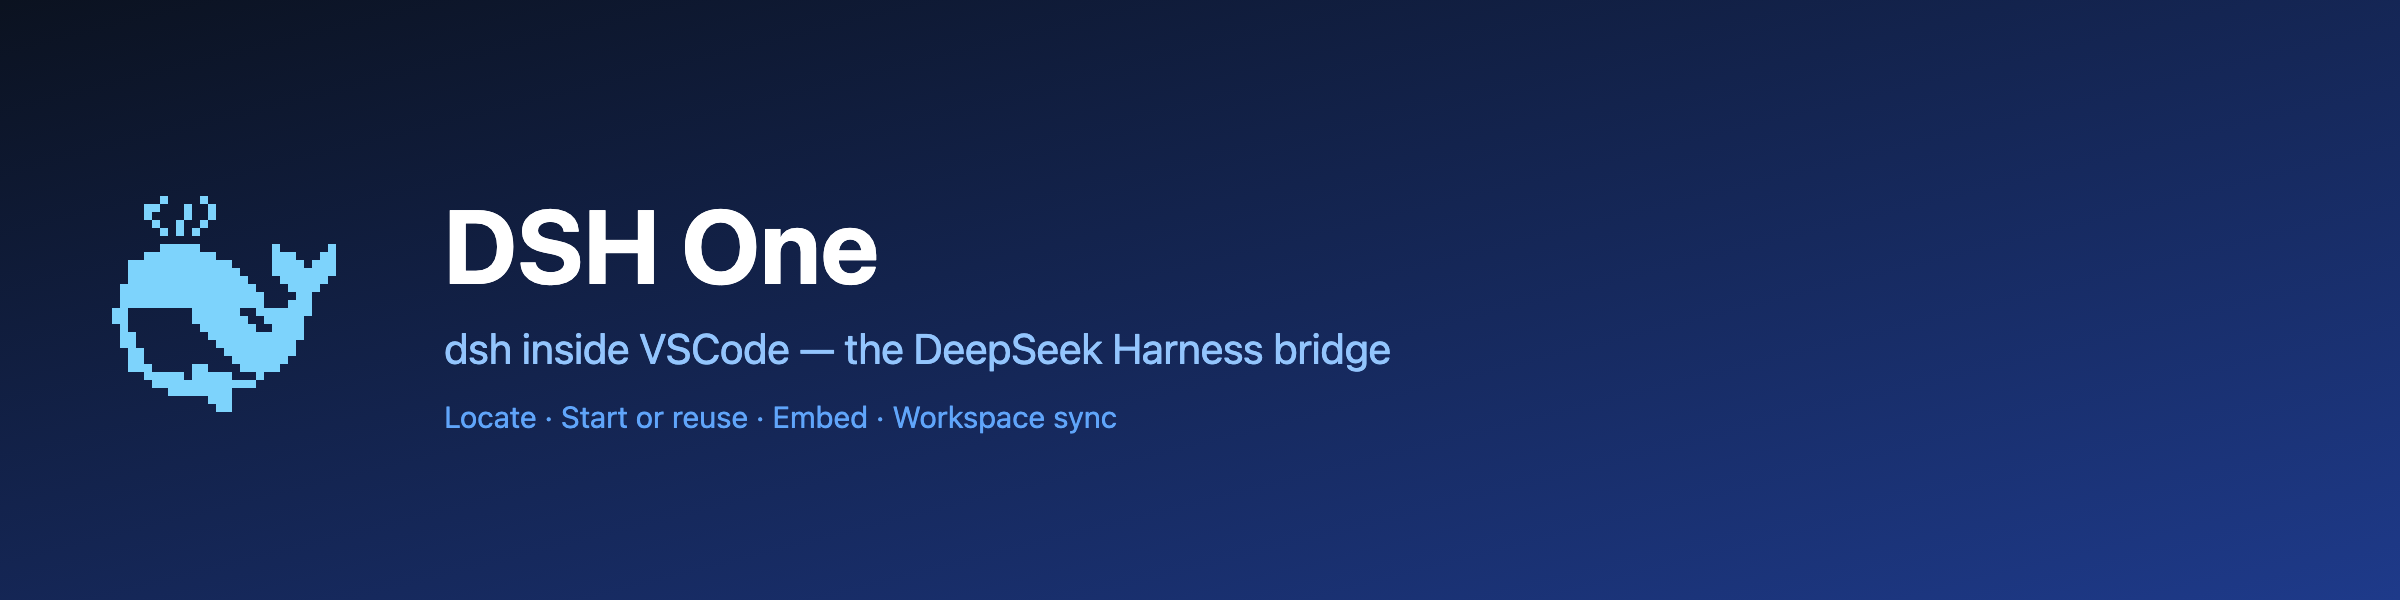
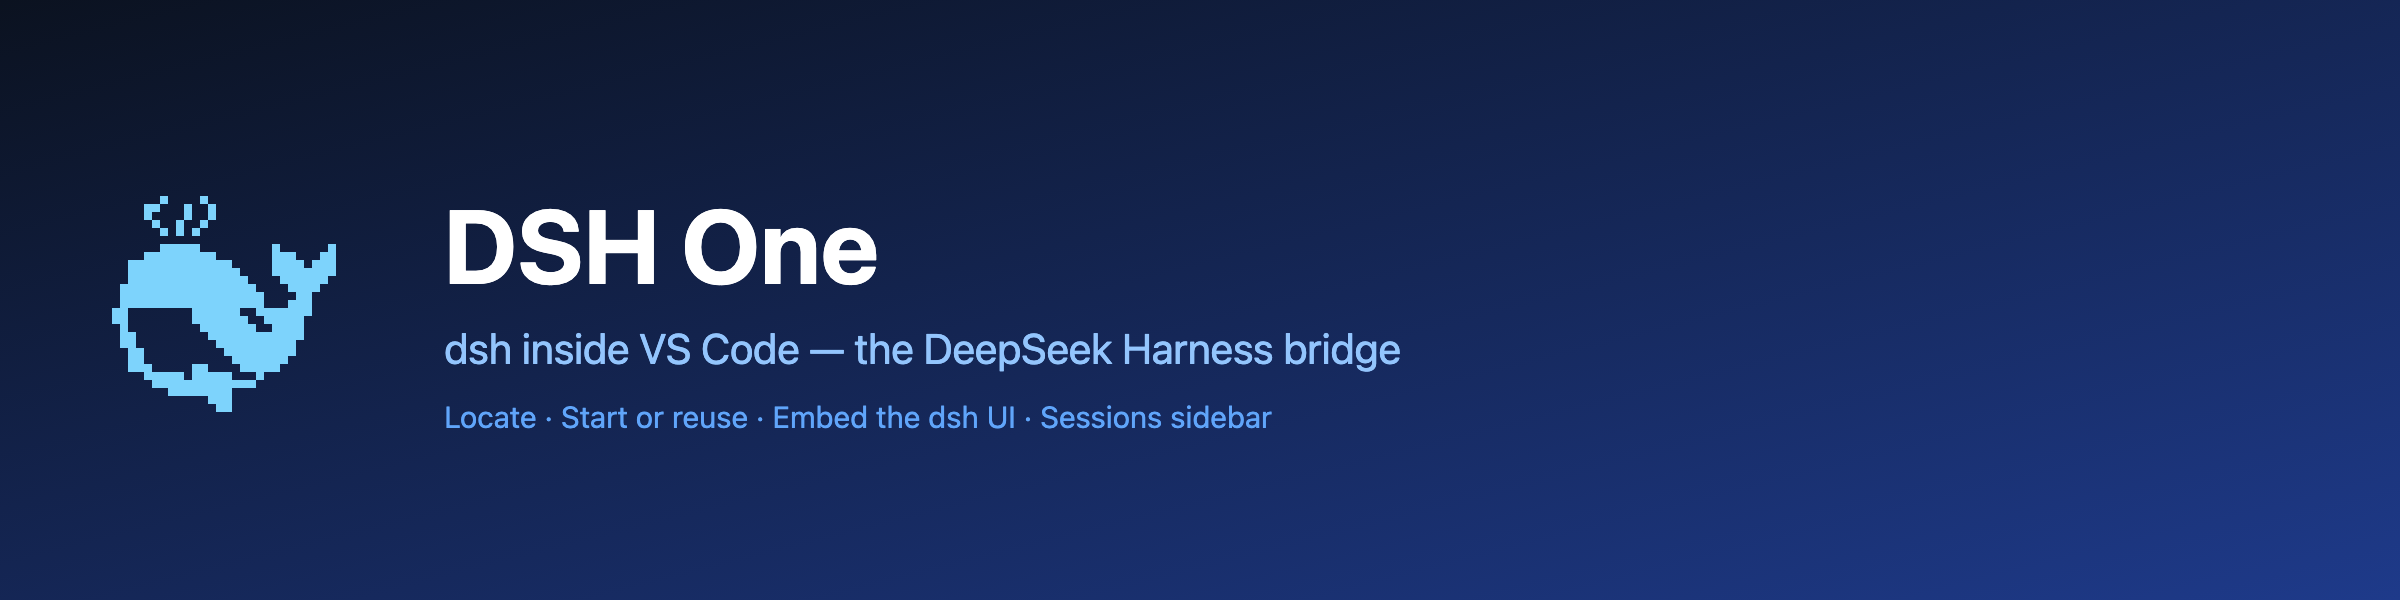
fix(ui-text): 用户可见文案去掉「装配」；hero 图重出；删掉过时的架构总图
- 命令标题：Open Assembled Chat / dsh Settings (assembled) → Open Chat / dsh Settings
  （中文：打开装配对话区 → 打开对话区，dsh 设置（装配）→ dsh 设置）；
- 中文错误文案五条去掉「装配」「mirror」这类内部说法（键不变，只改译文）；
- assets/hero.svg 重新出图（2400x600）：VSCode → VS Code，「Workspace sync」换成
  与 2.0.0 相符的「Embed the dsh UI · Sessions sidebar」；
- 删除 docs/assembly-architecture-diagram.png（#64 M1 的单树形态，与现状不符、
  已无引用），assembly-architecture.html 的历史材料那句跟上。

Changed region(s): [[0.2812, 0.54, 0.5938, 0.63], [0.3438, 0.66, 0.5312, 0.72]]

diff --git a/docs/assembly-architecture.html b/docs/assembly-architecture.html
@@ -169,7 +169,7 @@
 </ul>
 
 <h2>7. 历史材料</h2>
-<p>仓库里还留着一张 2026-09-14 画的装配架构总图（<code>docs/assembly-architecture-diagram.png</code>），那是 <code>develop/cordis-chat</code> 验证线上 <code>#64</code> M1 的形态：当时只有对话区一棵树、block list 两条、外框插件还叫 <code>@dsh-one/vscode-shell</code>，图里写着「旧前端不动」「44 个插件」。这些说法今天都不成立了（三棵树、外框插件已改名、旧自研侧栏已摘钩、前端插件数量随版本变），那张图只作历史留档，不要拿它当现状；现状看本文与 <code>docs/architecture.md</code>。</p>
+<p>2026-09-14 画的那张装配架构总图（原先在 <code>docs/assembly-architecture-diagram.png</code>）<b>已删除</b>：它画的是 <code>develop/cordis-chat</code> 验证线上 <code>#64</code> M1 的形态——当时只有对话区一棵树、block list 两条、外框插件还叫 <code>@dsh-one/vscode-shell</code>，图里写着「旧前端不动」「44 个插件」，这些说法今天都不成立（三棵树、外框插件已改名、旧自研侧栏已摘钩、前端插件数量随版本变）。要看结构按本文 §1–§3 与 <code>docs/architecture.md</code>，别拿那张旧图当现状，也别在它上面改。</p>
 
 <footer>
   依据：<code>src/ui/assembly/**</code>、<code>src/server/assemblyMirror.ts</code>、<code>src/ui/assemblyView.ts</code>、<code>packages/dsh-*/</code> 的实际代码（2026-09-20 核实）。
